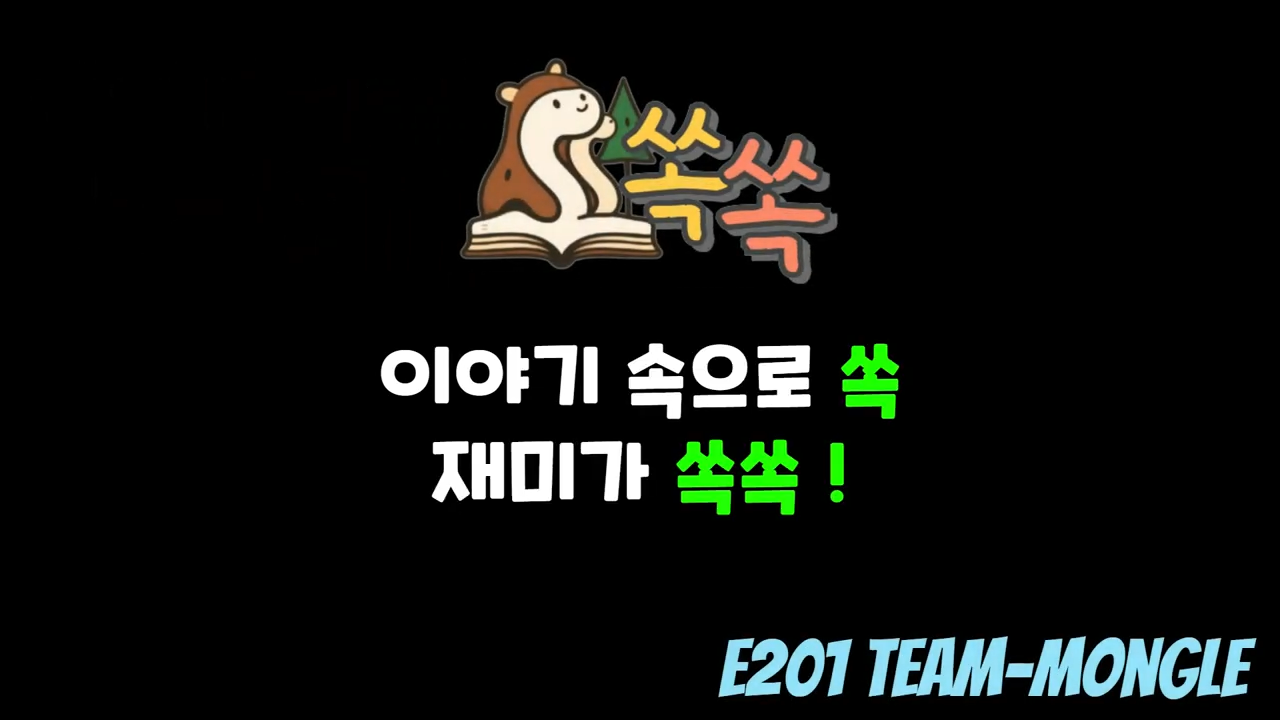
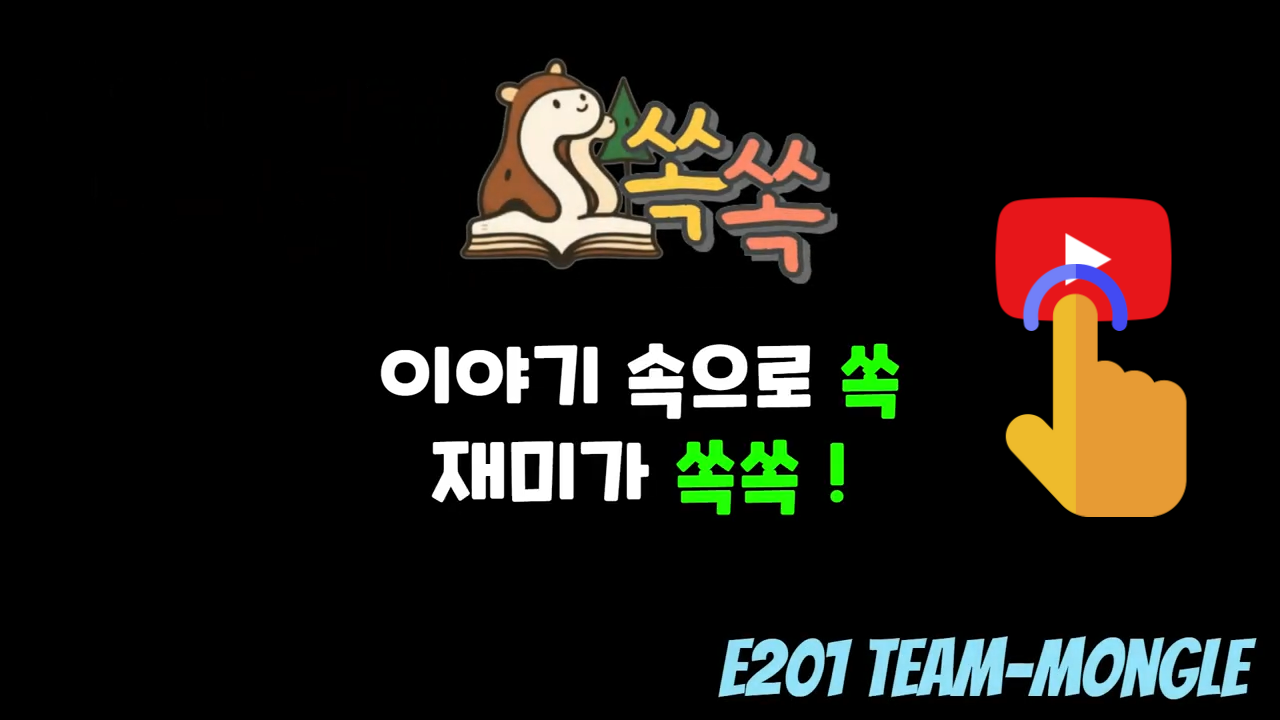
docs: 리드미 수정

Changed region(s): [[0.75, 0.275, 0.9375, 0.7333]]

diff --git a/README.md b/README.md
@@ -46,7 +46,7 @@
 <br>
 
 ## 주요 기능 및 기술 활용
-### 시연 영상
+### 시연 영상(YouTube)
 [![쏙쏙](img/ssockssock.png)](https://youtu.be/3BXyRPZQ93U)
 ### 📸 모션 캡쳐 & 실시간 영상 처리
  - 사용자의동작을 실시간으로 인식하여 스토리 진행
@@ -54,7 +54,10 @@
 
  ![alt text](img/stone.gif)
 ### 🎊 이벤트 트리거 
- - 특정 모션(ex.손동작)을 취했을 때 이벤트 발생 
+ - 특정 모션을 취했을 때 이벤트 발생
+ - ex) 쿠키 미션에서 카메라에 입을 벌렸다 오므리면 쿠키 먹는 이벤트 발생
+
+![alt text](img/cookie.gif)
 ### 🔊 음성 인식 & 대화형 진행
 - 특정 대사를 직접 말하면서 동화가 진행 (아이들이 직접 주인공이 되어 대화 따라하기)
 
